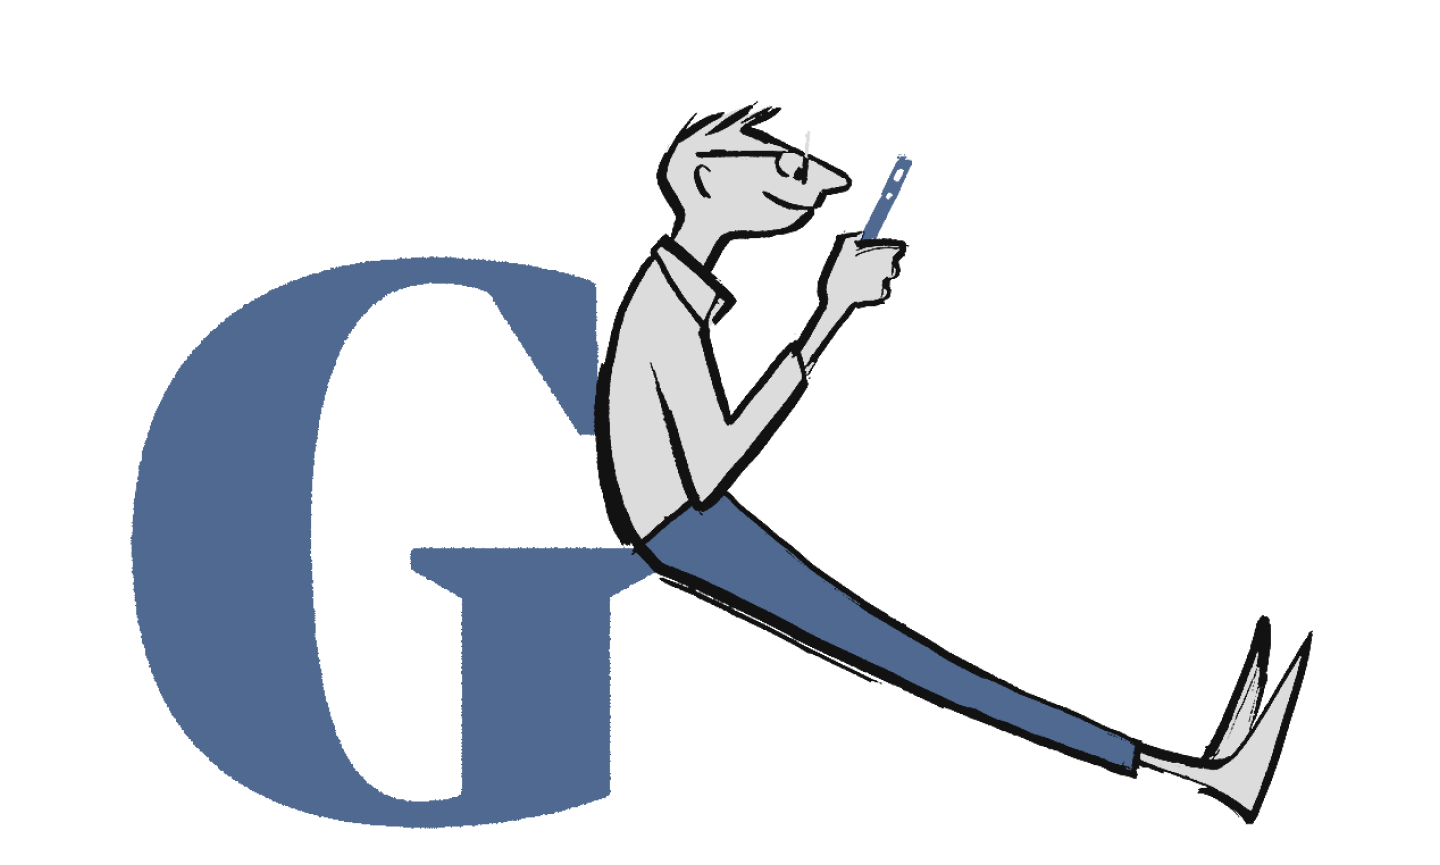
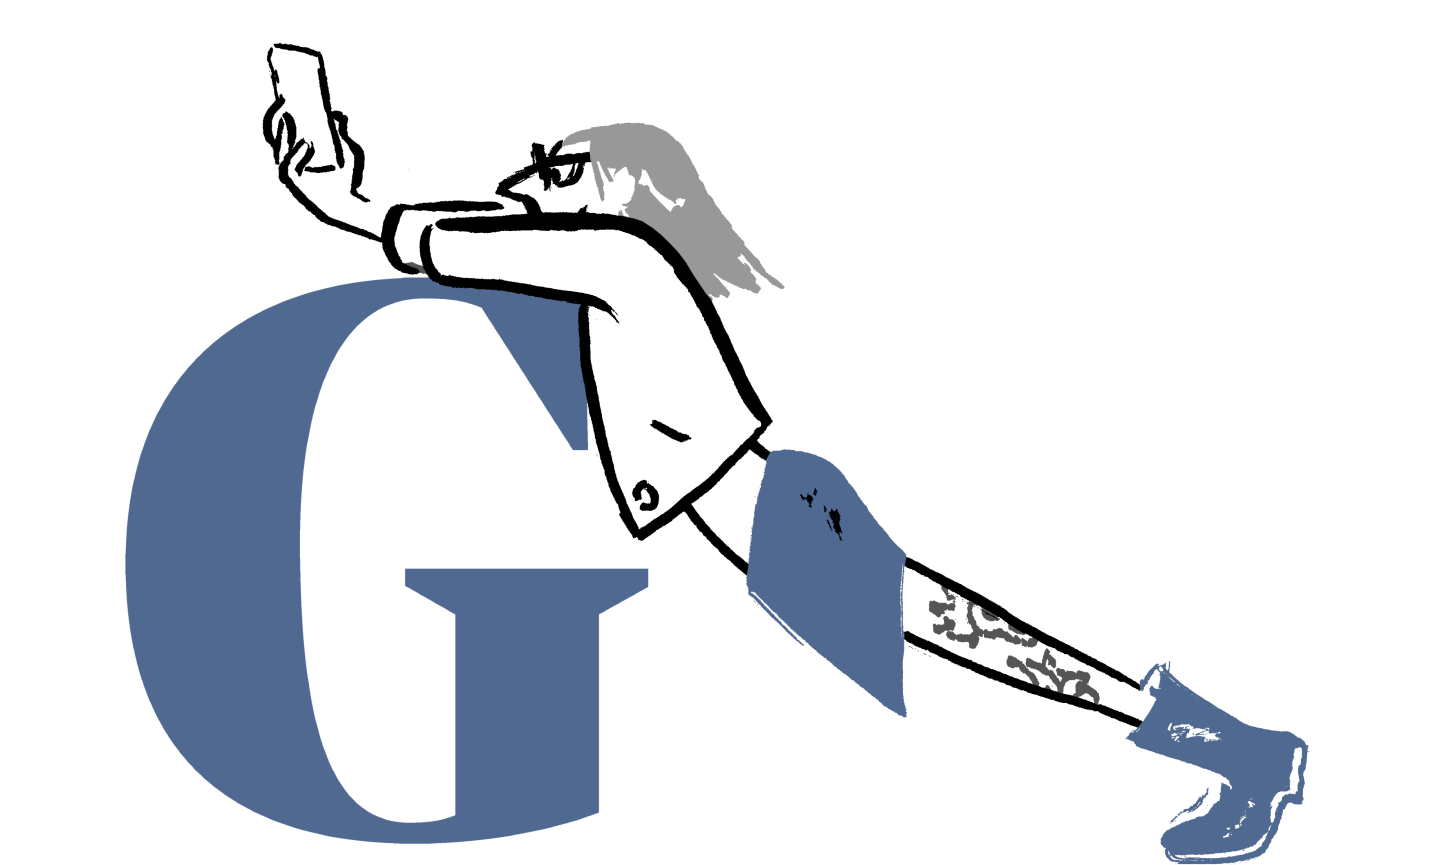
feat: Revert the removal of the welcome image and replace with a new one

diff --git a/src/client/layouts/MinimalLayout.tsx b/src/client/layouts/MinimalLayout.tsx
@@ -27,7 +27,6 @@ interface MinimalLayoutProps {
 	pageHeader: string;
 	leadText?: React.ReactNode;
 	imageId?: DecorativeImageId;
-	centered?: boolean;
 	successOverride?: string;
 	errorOverride?: string;
 	errorContext?: React.ReactNode;
@@ -35,11 +34,11 @@ interface MinimalLayoutProps {
 	shortRequestId?: string;
 }
 
-const mainStyles = (wide: boolean, centered?: boolean) => css`
+const mainStyles = (wide: boolean) => css`
 	padding: ${remSpace[3]} ${remSpace[4]} ${remSpace[4]} ${remSpace[4]};
 	max-width: ${wide ? LAYOUT_WIDTH_WIDE : LAYOUT_WIDTH_NARROW}px;
 	width: 100%;
-	margin: ${!centered && '0'} auto;
+	margin: 0 auto;
 	display: flex;
 	flex-direction: column;
 	gap: ${CONTAINER_GAP};
@@ -60,7 +59,6 @@ export const MinimalLayout = ({
 	pageHeader,
 	leadText,
 	imageId,
-	centered,
 	successOverride,
 	errorOverride,
 	errorContext,
@@ -77,7 +75,7 @@ export const MinimalLayout = ({
 		<>
 			<Theme />
 			<MinimalHeader />
-			<main css={mainStyles(wide, centered)}>
+			<main css={mainStyles(wide)}>
 				{imageId && <MinimalLayoutImage id={imageId} />}
 				{pageHeader && (
 					<header>

diff --git a/src/client/pages/NewAccountReview.tsx b/src/client/pages/NewAccountReview.tsx
@@ -53,7 +53,7 @@ export const NewAccountReview = ({
 			<MinimalLayout
 				shortRequestId={shortRequestId}
 				pageHeader="You're signed in! Welcome to the Guardian."
-				centered={true}
+				imageId="welcome"
 			>
 				<MainForm
 					shortRequestId={shortRequestId}
@@ -71,11 +71,11 @@ export const NewAccountReview = ({
 		<MinimalLayout
 			shortRequestId={shortRequestId}
 			pageHeader="You're signed in! Welcome to the Guardian."
+			imageId="welcome"
 			leadText="
 				Before you start, confirm how you’d like the Guardian to use your
 				signed-in data.
 			"
-			centered={true}
 		>
 			<MainForm
 				formAction={buildUrlWithQueryParams('/welcome/review', {}, queryParams)}

diff --git a/src/client/pages/WelcomeExisting.tsx b/src/client/pages/WelcomeExisting.tsx
@@ -20,7 +20,10 @@ export const WelcomeExisting = ({
 	accountManagementUrl = 'https://manage.theguardian.com',
 }: WelcomeExistingProps) => {
 	return (
-		<MinimalLayout pageHeader="Welcome back. You're signed in!" centered={true}>
+		<MinimalLayout
+			pageHeader="Welcome back. You're signed in!"
+			imageId="welcome"
+		>
 			<MainBodyText>
 				We noticed you already have a Guardian account
 				{email && (
